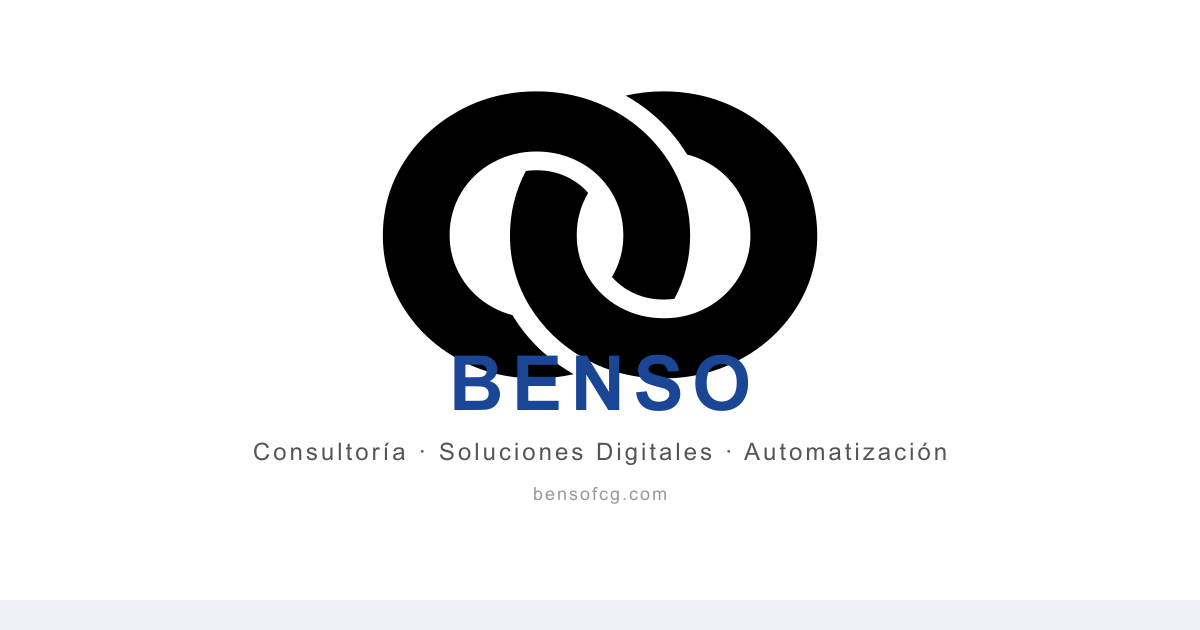
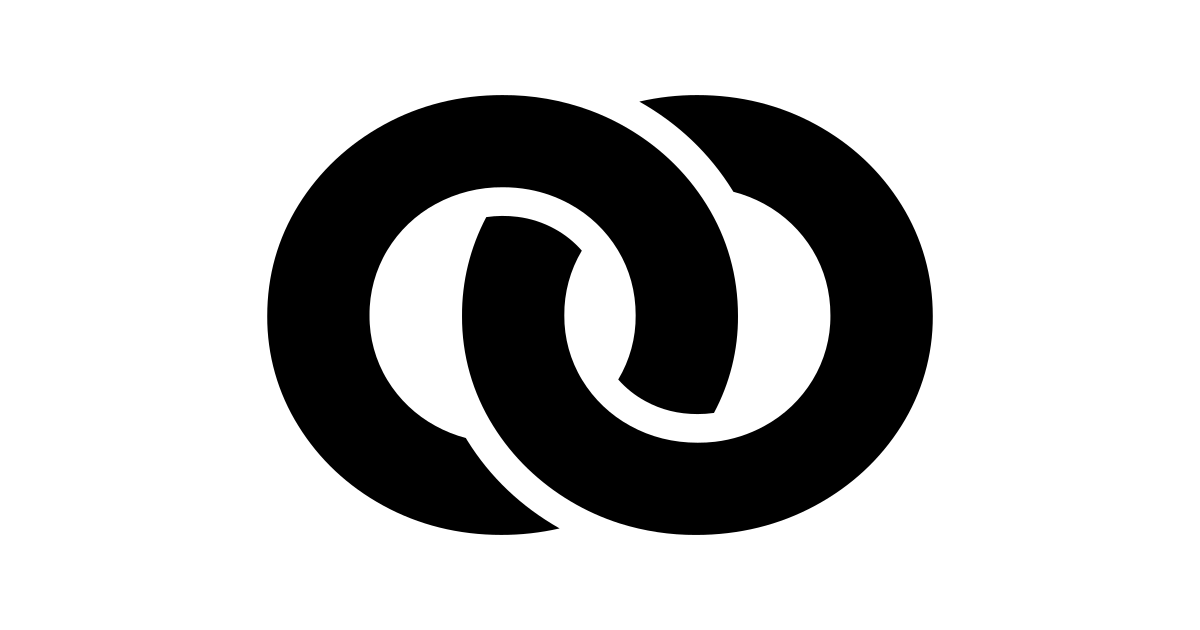
fix(seo): force absolute OG image URLs, inject manual fallback OG tags, simplify OG images
- Use absolute URLs (https://www.bensofcg.com/og-image.png) in metadata to avoid
  relative URL resolution issues with Next.js metadata API
- Inject manual fallback OG meta tags (og:image, og:url, og:locale) in root layout
  <head> — Next.js 16.2.3 was not rendering some openGraph properties via metadata API
- Regenerated og-image.png and twitter-image.png as pure isotipo on white (no text)
- Removed non-existent t('ogTitle')/t('ogDescription') keys from locale layout

Changed region(s): [[0.2158, 0.1206, 0.8017, 0.8746]]

diff --git a/src/app/layout.tsx b/src/app/layout.tsx
@@ -40,12 +40,12 @@ export const metadata: Metadata = {
     siteName: 'BENSO',
     type: 'website',
     locale: 'es_ES',
-    images: [{ url: '/og-image.png', width: 1200, height: 630 }],
+    images: [{ url: 'https://www.bensofcg.com/og-image.png', width: 1200, height: 630 }],
   },
   twitter: {
     card: 'summary_large_image',
     site: '@benso_fcg',
-    images: [{ url: '/twitter-image.png', width: 1200, height: 630 }],
+    images: [{ url: 'https://www.bensofcg.com/twitter-image.png', width: 1200, height: 630 }],
   },
 };
 
@@ -77,6 +77,12 @@ export default function RootLayout({
       <head>
         <link rel="preconnect" href="https://images.unsplash.com" />
         <link rel="dns-prefetch" href="https://images.unsplash.com" />
+        {/* Fallback OG tags — Next.js metadata API may not render all OG properties */}
+        <meta property="og:image" content="https://www.bensofcg.com/og-image.png" />
+        <meta property="og:image:width" content="1200" />
+        <meta property="og:image:height" content="630" />
+        <meta property="og:url" content="https://www.bensofcg.com" />
+        <meta property="og:locale" content="es_ES" />
         <script
           type="application/ld+json"
           dangerouslySetInnerHTML={{ __html: JSON.stringify(jsonLd) }}

diff --git a/src/app/[locale]/layout.tsx b/src/app/[locale]/layout.tsx
@@ -35,12 +35,12 @@ export async function generateMetadata({ params }: { params: Promise<{ locale: s
       siteName: 'BENSO',
       type: 'website',
       locale: locale === 'en' ? 'en_US' : 'es_ES',
-      images: [{ url: '/og-image.png', width: 1200, height: 630 }],
+      images: [{ url: 'https://www.bensofcg.com/og-image.png', width: 1200, height: 630 }],
     },
     twitter: {
       card: 'summary_large_image',
       site: '@benso_fcg',
-      images: [{ url: '/twitter-image.png', width: 1200, height: 630 }],
+      images: [{ url: 'https://www.bensofcg.com/twitter-image.png', width: 1200, height: 630 }],
     },
   };
 }
